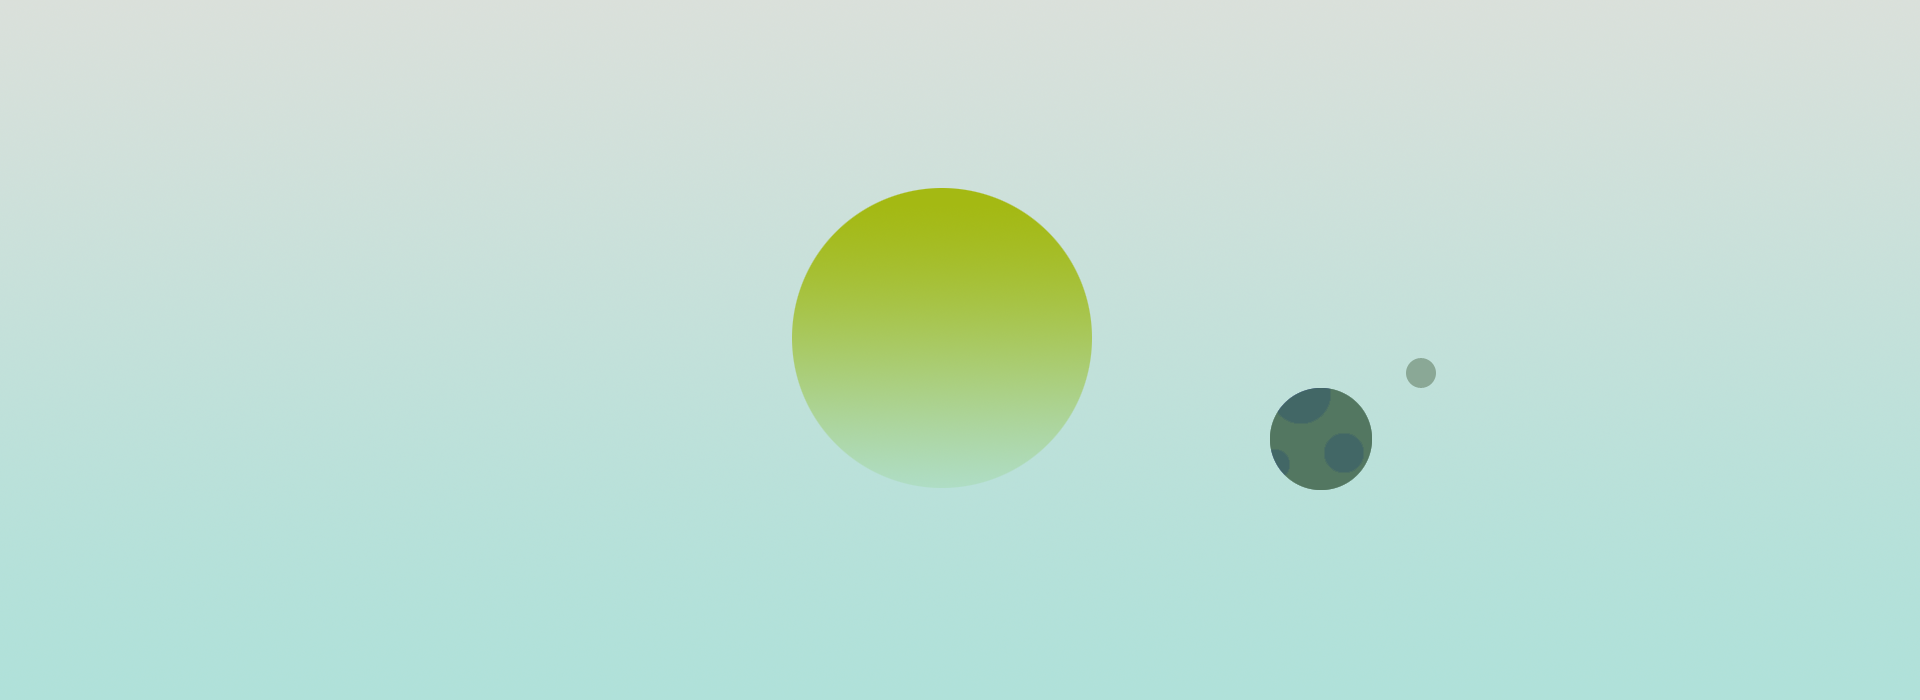
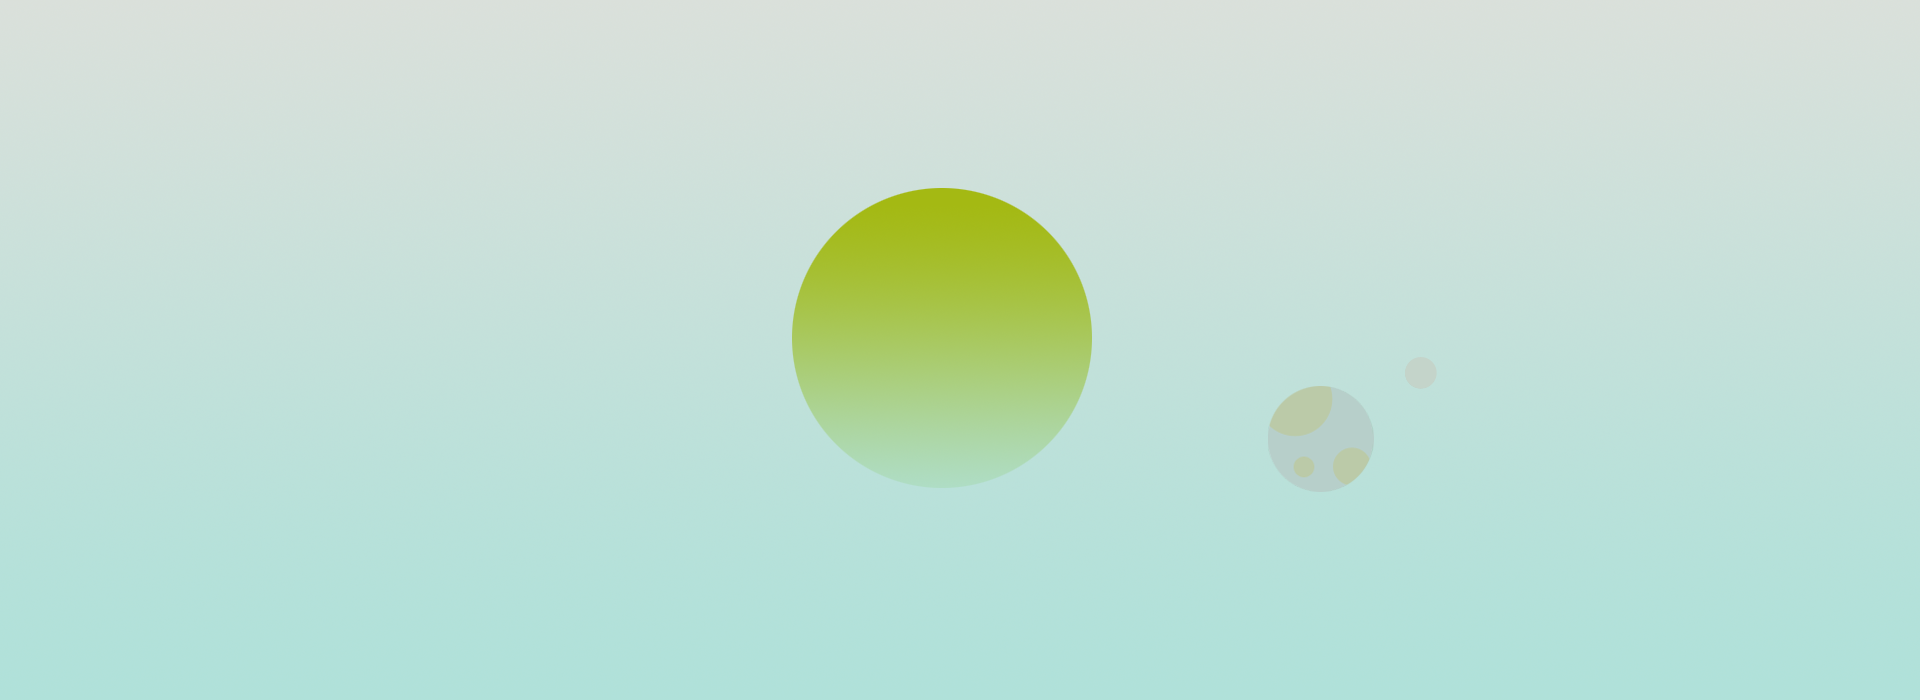
Swaps themes in th:if css statement.

Changed region(s): [[0.6562, 0.51, 0.75, 0.72]]

diff --git a/src/main/resources/templates/entry/index.html b/src/main/resources/templates/entry/index.html
@@ -15,17 +15,17 @@
 
     <nav th:replace="fragments :: navigation"></nav>
 
-    <p class="seeyoutomorrow col-md-12" th:if="${todayEntry} and ${todayEntry.size()}">- See you for tomorrow's post -</p>
+    <p class="seeyoutomorrow col-md-12" th:unless="${todayEntry} and ${todayEntry.size()}">- See you for tomorrow's post -</p>
 
 
 
     <!--entries form-->
     <div class="entriesform">
         <a href="#enter" id="enterplus" data-toggle="collapse"
-           th:unless="${todayEntry} and ${todayEntry.size()}">+</a>
+           th:if="${todayEntry} and ${todayEntry.size()}">+</a>
 
          <form id="enter" class="collapse" name="entryForm"
-                th:unless="${todayEntry} and ${todayEntry.size()}"
+                th:if="${todayEntry} and ${todayEntry.size()}"
                 method="post" th:object="${entry}"
                 onsubmit="return validateForm()">
 

diff --git a/src/main/resources/templates/fragments.html b/src/main/resources/templates/fragments.html
@@ -9,7 +9,9 @@
     <link rel="stylesheet" href="https://maxcdn.bootstrapcdn.com/bootstrap/3.3.7/css/bootstrap.min.css"/>
     <script type="text/javascript" src="https://maxcdn.bootstrapcdn.com/bootstrap/3.3.7/js/bootstrap.min.js"></script>
     <script type="text/javascript" th:src="@{/js/script.js}"></script>
-    <link rel="stylesheet" th:href="@{/css/styles.css}"/>
+    <link th:if="${#strings.contains(userPref, 'Galaxy')}" rel="stylesheet" th:href="@{/css/galaxy.css}"/>
+    <link th:if="${#strings.contains(userPref, 'Daytime')}" rel="stylesheet" th:href="@{/css/daytime.css}"/>
+
 
 
 
@@ -20,7 +22,6 @@
     <span class="pull-right">
 
     <div class="dropdown">
-        <img src="/images/orb.png" alt="Trolltunga Norway" width="50" height="50"/>
         <div class="dropdown-content">
             <br/>
             <p> &nbsp;about </p>

diff --git a/src/main/java/com/annayoungyeun/days/controllers/EntryController.java b/src/main/java/com/annayoungyeun/days/controllers/EntryController.java
@@ -30,10 +30,15 @@ public class EntryController {
     @Autowired
     private UserDao userDao;
 
+
     //main page - add an item, view this year's journal
     @RequestMapping(value="", method = RequestMethod.GET)
     public String addEntry(Model model, HttpServletRequest request){
         //current user
+
+        User user = userDao.findByUsername(request.getSession().getAttribute("currentUser").toString());
+        String userPref = user.getPrefs();
+
         int currentUserId = userDao.findByUsername(
         request.getSession().getAttribute("currentUser").toString()).getId();
 
@@ -49,6 +54,7 @@ public class EntryController {
         model.addAttribute("todayEntry", todayEntry);
         model.addAttribute("title", "days");
         model.addAttribute("entries", entryDao.findByUserIdOrderByIdDesc(currentUserId));
+        model.addAttribute("userPref", userPref);
         model.addAttribute(new Entry());
         return "entry/index";
     }
@@ -59,10 +65,12 @@ public class EntryController {
 
         //error handling
         User user = userDao.findByUsername(request.getSession().getAttribute("currentUser").toString());
+        String userPref = user.getPrefs();
         if(errors.hasErrors()){
             model.addAttribute("title", "days");
             model.addAttribute("entries", entryDao.findByUserIdOrderByIdDesc(user.getId()));
             model.addAttribute(newEntry);
+            model.addAttribute("userPref", userPref);
             return "entry/index";
         }
 

diff --git a/src/main/java/com/annayoungyeun/days/controllers/UserController.java b/src/main/java/com/annayoungyeun/days/controllers/UserController.java
@@ -31,6 +31,7 @@ public class UserController {
 
     @RequestMapping(value = "add", method = RequestMethod.GET)
     public String add(Model model) {
+
         model.addAttribute(new User());
         model.addAttribute("title", "days");
         return "user/add";
@@ -169,10 +170,12 @@ public class UserController {
         settingsForm.setNotifications(notifications);
         settingsForm.setTheme(theme);
 
+        String userPref = user.getPrefs();
         model.addAttribute("title", "days User Settings");
         model.addAttribute("email", user.getEmail());
         model.addAttribute("theme", theme);
         model.addAttribute("notifications", notifications);
+        model.addAttribute("userPref", userPref);
         model.addAttribute(settingsForm);
 
         return "user/settings";
@@ -198,6 +201,7 @@ public class UserController {
         model.addAttribute("email", user.getEmail());
         model.addAttribute("theme", settingsForm.getTheme());
         model.addAttribute("notifications", settingsForm.getNotifications());
+        model.addAttribute("userPrefs", userPrefs);
 
         return "user/settings";
 
